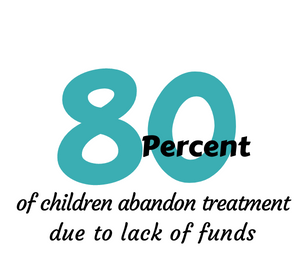
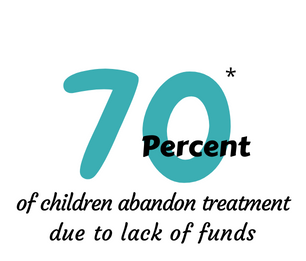
changed statistics section

diff --git a/index.html b/index.html
@@ -127,9 +127,16 @@
                 <center>
                     <img src="./assests/30.png" alt="" width="60%">
                 </center>
+            
             </div>
+            
+
     </section>
-    
+    <section id="journey">
+        <div class="jcontainer">
+            
+        </div>
+    </section>
     <section id="Donate">
         <div class="qrcode">
             <center>
@@ -182,6 +189,9 @@
                 <br>
                 <br>
                 CSR Regn No. CSR00020422
+                <br>
+                <p style="color: beige;">*data given above is approximate</p>
+
                 <p class="last">COPYRIGHT © 2022 Amogh Foundation</p>
         </div>
         <div class="contact">
@@ -190,6 +200,7 @@
             <p class="details"> Ms. P K Brahmavidhya – Practicing Chartered Accountant</p>
             <p class="num">+91 9911354654</p>
         </div>
+        
     </section>
 </body>
 </html>

diff --git a/style.css b/style.css
@@ -177,6 +177,7 @@ border-bottom: none;
   margin-bottom: 7%;
 
 }
+
 .s1{
   flex :1;
 
